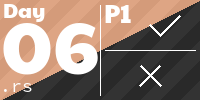
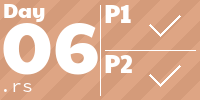
feat: day 6 part 2

diff --git a/src/solutions/day_6.rs b/src/solutions/day_6.rs
@@ -1,11 +1,12 @@
 use crate::utils::{get_input::get_aoc_input, parsing::split_lines};
 
 /// Runs the solution for Advent of Code Day 6.
-pub fn day_6() -> u64 {
-    let part_1 = solve_all_lines(true);
-    println!("Day 6! Part 1: {:?}", part_1);
-
-    part_1
+pub fn day_6() {
+    println!(
+        "Day 6! Part 1: {:?}, Part 2: {:?}",
+        solve_all_lines(true),
+        solve_all_lines(false)
+    );
 }
 
 #[derive(Debug)]
@@ -14,8 +15,63 @@ struct MathsSheet {
     instructions: Vec<String>,
 }
 
+fn process_input_part_1(input: Vec<String>) -> Vec<Vec<u64>> {
+    let mut output_lines = Vec::new();
+    for (pos, line) in input.iter().enumerate() {
+        let chars = line.split_whitespace();
+        if output_lines.is_empty() {
+            let char_count = chars.count();
+            output_lines = vec![Vec::new(); char_count]; // Instantiate vertical lines
+        }
+        for char in line.split_whitespace() {
+            output_lines[pos].push(char.parse::<u64>().unwrap());
+        }
+    }
+    output_lines
+}
+fn process_input_part_2(input: Vec<String>) -> Vec<Vec<u64>> {
+    println!("Finding whitespaces in input for part 2.");
+    let line_len = input[0].len();
+    let mut columns: Vec<Option<u64>> = vec![Some(0); line_len];
+
+    for i in 0..line_len {
+        if input
+            .iter()
+            .all(|line| line.chars().nth(i).is_some_and(|c| c.is_whitespace()))
+        {
+            columns[i] = None;
+        }
+    }
+
+    // Build numbers column-wise, keeping x_coord and y_coord
+    for (y_coord, line) in input.iter().enumerate() {
+        println!("Line {:?} being parsed.", y_coord);
+        for (x_coord, ch) in line.chars().enumerate() {
+            if columns[x_coord].is_none() {
+                continue;
+            } else if let Some(num) = ch.to_digit(10) {
+                columns[x_coord] = columns[x_coord].map(|current| current * 10 + num as u64);
+            }
+        }
+    }
+
+    let mut fully_parsed = Vec::new();
+    let mut current_nums: Vec<u64> = Vec::new();
+    for item in columns.iter().take(line_len) {
+        if item.is_none() {
+            fully_parsed.push(current_nums);
+            current_nums = Vec::new();
+        } else {
+            current_nums.push(item.unwrap());
+        }
+    }
+    fully_parsed.push(current_nums); // push last vec
+
+    fully_parsed
+}
+
 impl MathsSheet {
-    fn solve_line(&self, line: Vec<u64>, operator_pos: usize) -> u64 {
+    fn solve_line(&self, line: &Vec<u64>, operator_pos: usize) -> u64 {
         let mut line_total: u64 = 0;
         let operator = self.instructions[operator_pos].as_str();
         match operator {
@@ -33,15 +89,11 @@ impl MathsSheet {
     fn solve_all_lines(&self) -> u64 {
         let mut grand_total: u64 = 0;
         for pos in 0..self.lines_of_numbers.len() {
-            grand_total += self.solve_line(self.lines_of_numbers[pos].clone(), pos);
+            grand_total += self.solve_line(&self.lines_of_numbers[pos], pos);
         }
 
         grand_total
     }
-
-    // fn part_2_line_parsing(&self) {
-    //     for line in self.lines_of_numbers {}
-    // }
 }
 
 fn solve_all_lines(part_1: bool) -> u64 {
@@ -56,21 +108,8 @@ fn solve_all_lines(part_1: bool) -> u64 {
         .split_ascii_whitespace()
         .map(String::from)
         .collect(); // instructions are on last line
-    let mut vertical_lines: Vec<Vec<u64>> = Vec::new();
     if part_1 {
-        for line in input {
-            let mut pos = 0;
-            let chars = line.split_whitespace();
-            if vertical_lines.is_empty() {
-                let char_count = chars.clone().count(); // Clone the iterator to avoid consuming it
-                vertical_lines = vec![Vec::new(); char_count]; // Instantiate vertical lines
-            }
-            for char in line.split_whitespace() {
-                vertical_lines[pos].push(char.parse::<u64>().unwrap());
-                pos += 1;
-            }
-        }
-        sheet.lines_of_numbers = vertical_lines;
+        sheet.lines_of_numbers = process_input_part_1(input);
 
         if cfg!(test) {
             println!("{:?}", sheet);
@@ -78,22 +117,7 @@ fn solve_all_lines(part_1: bool) -> u64 {
 
         sheet.solve_all_lines()
     } else {
-        // for line in input {
-        //     let mut pos = 0;
-        //     let nums = split_string_by_specified_char(line, " ");
-        //     if vertical_lines.is_empty() {
-        //         let char_count = nums.len(); // Clone the iterator to avoid consuming it
-        //         vertical_lines = vec![Vec::new(); char_count]; // Instantiate vertical lines
-        //     }
-        //     for num in nums {
-        //         let char_pos = 0;
-        //         for char in num.chars() {
-        //             vertical_lines[pos][char_pos]
-        //         }
-        //     }
-        // I haven't finished this yet :(
-        // }
-        sheet.lines_of_numbers = vertical_lines;
+        sheet.lines_of_numbers = process_input_part_2(input);
 
         if cfg!(test) {
             println!("{:?}", sheet);
@@ -109,5 +133,9 @@ mod tests {
     #[test]
     fn test_day_6() {
         assert_eq!(solve_all_lines(true), 4277556);
+    }
+    #[test]
+    fn test_day_6_part_2() {
+        assert_eq!(solve_all_lines(false), 3263827);
     }
 }

diff --git a/README.md b/README.md
@@ -44,7 +44,7 @@ cargo doc && cargo doc --open
 
 <!-- AOC TILES BEGIN -->
 <h1 align="center">
-  2025 - 15 ⭐ - Rust
+  2025 - 16 ⭐ - Rust
 </h1>
 <a href="src/solutions/day_1.rs">
   <img src=".aoc_tiles/tiles/2025/01.png" width="203px">
